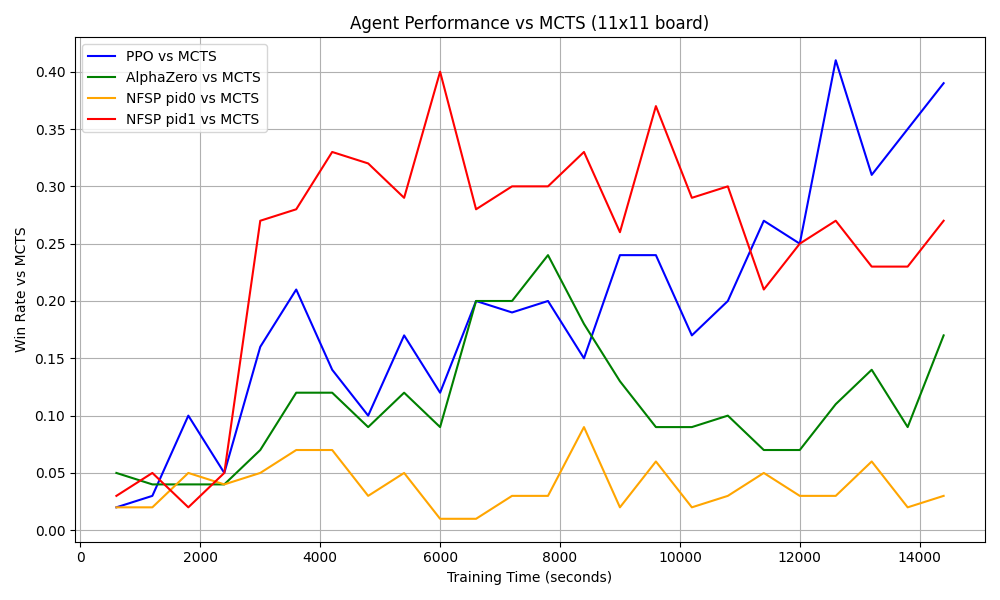
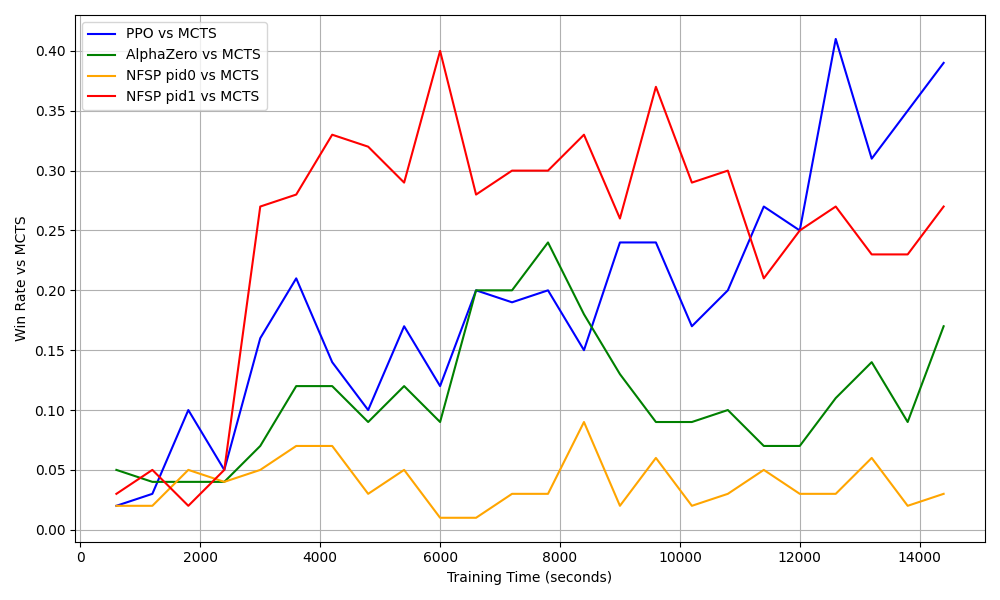
changes to evaluation

diff --git a/evaluation/evaluate_alphazero_24.py b/evaluation/evaluate_alphazero_24.py
@@ -1,0 +1,99 @@
+#!/usr/bin/env python3
+import os
+import sys
+import tensorflow.compat.v1 as tf
+import numpy as np
+import pyspiel
+
+tf.disable_v2_behavior()
+
+SCRIPT_DIR = os.path.dirname(__file__)
+PROJECT_ROOT = os.path.abspath(os.path.join(SCRIPT_DIR, os.pardir))
+sys.path.insert(0, PROJECT_ROOT)
+
+from open_spiel.python.algorithms import mcts
+
+def evaluate_vs_mcts(game, agent, mcts_bot, pid=0, num_games=100):
+    wins = 0
+    for i in range(num_games):
+        state = game.new_initial_state()
+        swap  = (i >= num_games // 2)
+        while not state.is_terminal():
+            cur = state.current_player()
+            is_agent = (cur == pid and not swap) or (cur != pid and swap)
+            move = agent.act(state) if is_agent else mcts_bot.act(state)
+            state.apply_action(move)
+        winner = state.returns()[pid] if not swap else state.returns()[1-pid]
+        if winner > 0:
+            wins += 1
+    return wins / num_games
+
+class EvalMCTSBot:
+    def __init__(self, game, sims=50):
+        self.bot = mcts.MCTSBot(
+            game, 1.0, sims,
+            mcts.RandomRolloutEvaluator(),
+            solve=False,
+            child_selection_fn=mcts.SearchNode.puct_value,
+            verbose=False,
+            dont_return_chance_node=True
+        )
+    def act(self, state):
+        return self.bot.mcts_search(state).best_child().action
+
+class EvalAlphaZeroAgent:
+    def __init__(self, sess, ckpt_prefix):
+        saver = tf.train.import_meta_graph(ckpt_prefix + ".meta", clear_devices=True)
+        saver.restore(sess, ckpt_prefix)
+        g = tf.get_default_graph()
+        self.obs_ph = g.get_tensor_by_name("input:0")
+        self.legals_ph = g.get_tensor_by_name("legals_mask:0")
+        self.train_ph = g.get_tensor_by_name("training:0")
+        self.probs_t = g.get_tensor_by_name("policy_softmax:0")
+        self.sess = sess
+
+    def act(self, state):
+        obs = state.observation_tensor()
+        mask = np.array(state.legal_actions_mask(), dtype=np.float32)
+        feed = {
+            self.obs_ph: [obs],
+            self.legals_ph: [mask],
+            self.train_ph: False,
+        }
+        probs = self.sess.run(self.probs_t, feed_dict=feed)[0]
+        probs = probs * mask
+        return int(np.argmax(probs))
+
+def main():
+    board_size = 8
+    checkpoint_number = 200
+    sims = {5: 50, 8: 50, 11: 50}[board_size]
+
+    print(f"\nEvaluating AlphaZero checkpoint--{checkpoint_number} vs MCTS on {board_size}x{board_size} board (10 runs)")
+
+    game = pyspiel.load_game(f"hex(board_size={board_size})")
+    mcts_bot = EvalMCTSBot(game, sims)
+
+    ckpt_dir = os.path.join(PROJECT_ROOT, "weights", "alpha_zero", f"alpha_zero_hex_{board_size}_24h")
+    ckpt_prefix = os.path.join(ckpt_dir, f"checkpoint-{checkpoint_number}")
+
+    if not os.path.exists(ckpt_prefix + ".meta"):
+        raise FileNotFoundError(f"Checkpoint {ckpt_prefix}.meta not found.")
+
+    tf.reset_default_graph()
+    with tf.Session() as sess:
+        agent = EvalAlphaZeroAgent(sess, ckpt_prefix)
+
+        results = []
+        for i in range(10):
+            print(f"\nRun {i+1}/10:")
+            win_rate = evaluate_vs_mcts(game, agent, mcts_bot, pid=0)
+            print(f"  Win rate vs MCTS: {win_rate:.3f}")
+            results.append(win_rate)
+
+        avg = sum(results) / len(results)
+        print(f"\nAverage win rate over 10 runs: {avg:.3f}")
+
+
+if __name__ == "__main__":
+    main()

diff --git a/evaluation/evaluate_alphazero.py b/evaluation/evaluate_alphazero.py
@@ -78,7 +78,7 @@ def main():
         sims = {5:50, 8:50, 11:50}[B]
         mcts_bot = EvalMCTSBot(game, sims)
 
-        csv_path = os.path.join(PROJECT_ROOT, "evaluation", f"eval_{B}.csv")
+        csv_path = os.path.join(PROJECT_ROOT, "evaluation", "output", f"eval_{B}.csv")
         with open(csv_path, newline="") as f:
             reader = csv.reader(f)
             header = next(reader)

diff --git a/evaluation/plot_evaluation.py b/evaluation/plot_evaluation.py
@@ -40,7 +40,7 @@ for board, filename in files.items():
 
     plt.xlabel("Training Time (seconds)")
     plt.ylabel("Win Rate vs MCTS")
-    plt.title(f"Agent Performance vs MCTS ({board} board)")
+    #plt.title(f"Agent Performance vs MCTS ({board} board)")
     plt.legend()
     plt.grid(True)
     plt.tight_layout()

diff --git a/evaluation/alpha_zero_loss.py b/evaluation/alpha_zero_loss.py
@@ -44,6 +44,7 @@ for folder in folders:
     print(f"Saved CSV: {csv_path}")
 
     plt.figure(figsize=(10, 6))
+    #plt.plot(df['total_loss'], label='Total Loss')
     plt.plot(df['policy_loss'], label='Policy Loss')
     plt.plot(df['value_loss'], label='Value Loss')
     plt.plot(df['l2_loss'], label='L2 Loss')
